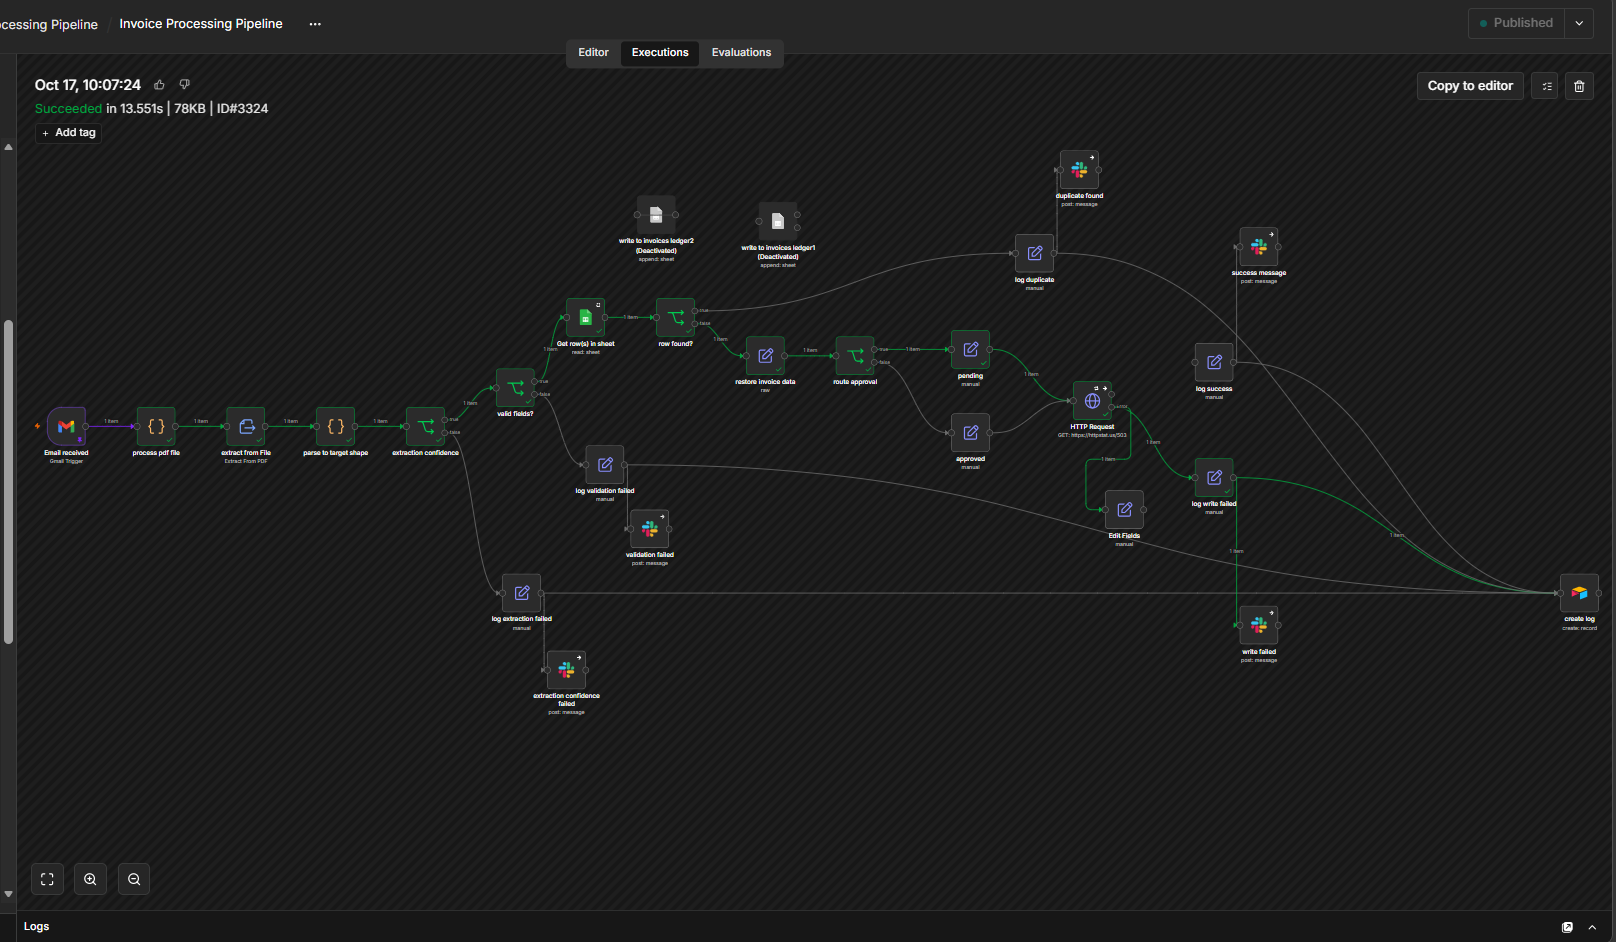
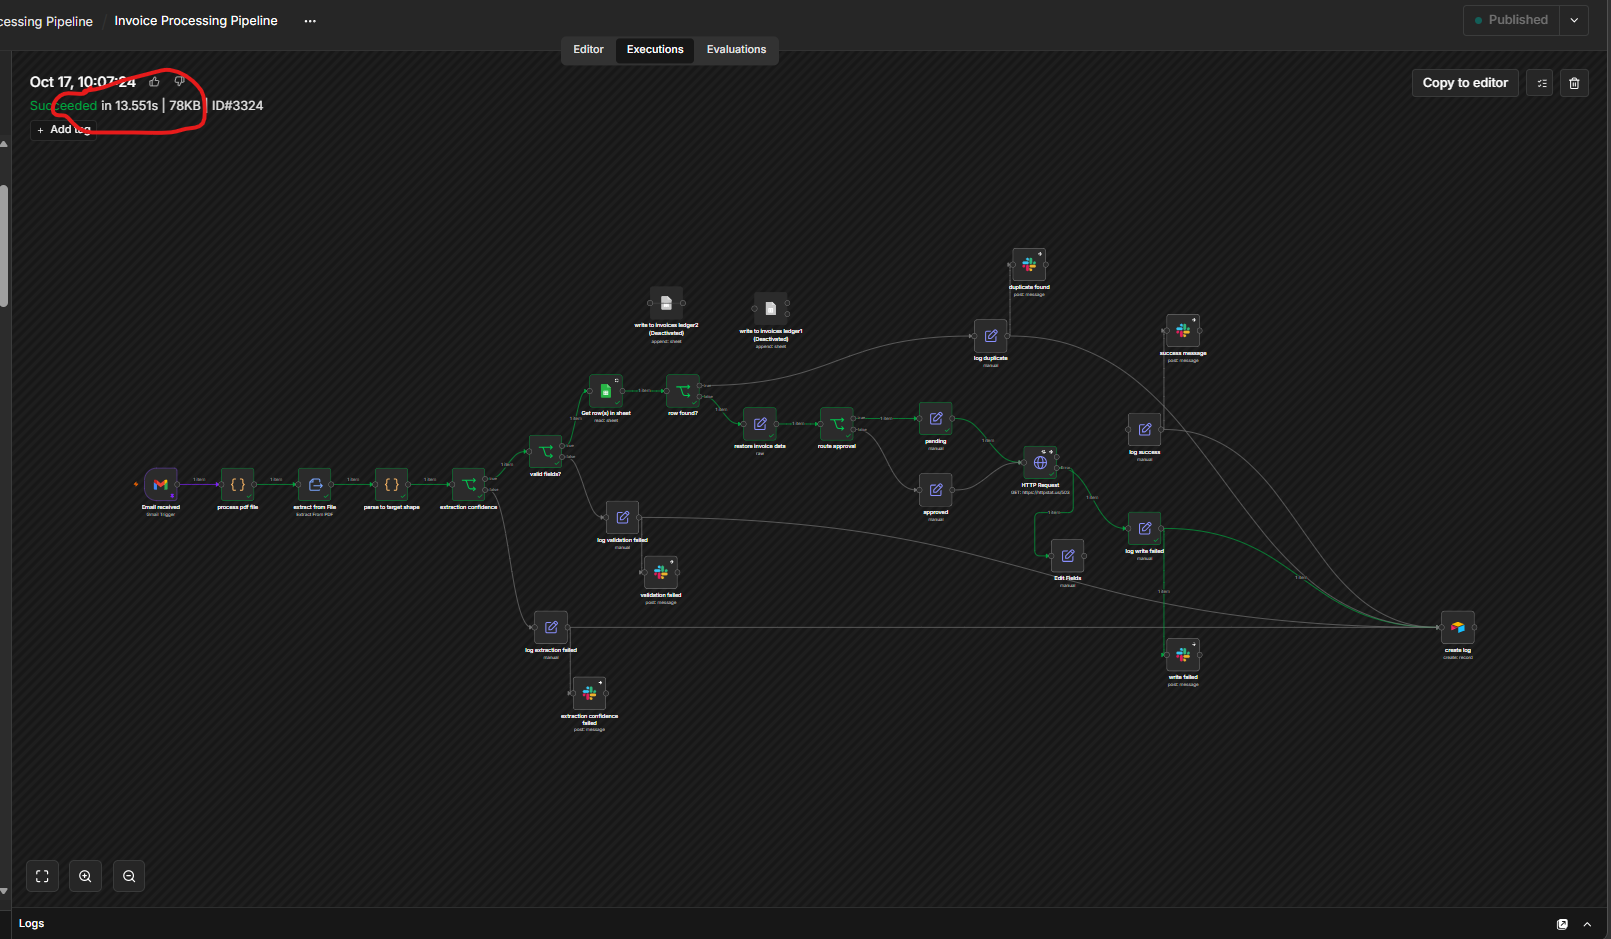
edited image and fixed typos

diff --git a/projects/05-invoice-pipeline/case-study.md b/projects/05-invoice-pipeline/case-study.md
@@ -55,10 +55,10 @@ happened and what a human should do.
 - **Same invoice sent twice** second one logs as Duplicate and isn't written again.
 - **Ledger write failing, two different ways, tested separately:**
 
-    | Failure                                                  | What happened                                                   |
-    | -------------------------------------------------------- | --------------------------------------------------------------- |
-    | Service unreachable (dead endpoint)                      | 3 attempts, about 14.6s, then Write Failed                      |
-    | Configuration error (nonexistent document or sheet name) | Failed immediately, no retries, 2s -4s total, then Write Failed |
+    | Failure                                                  | What happened                                                    |
+    | -------------------------------------------------------- | ---------------------------------------------------------------- |
+    | Service unreachable (dead endpoint)                      | 3 attempts, about 14s, then Write Failed                         |
+    | Configuration error (nonexistent document or sheet name) | Failed immediately, no retries, 2s - 4s total, then Write Failed |
 
     Both end in the same Write Failed log row and urgent Slack message. Failing fast on something
     that can't succeed is the right behavior. This is what I observed on the Google Sheets node
@@ -108,4 +108,4 @@ happened and what a human should do.
 - ![Full canvas with all five exit paths feeding the log](./images/full-canvas.png "Invoice Processing Pipeline workflow")
 - ![Execution showing the dead-endpoint retry (~14)](./images/retry.png "Retrying a failed execution")
 - ![Airtable Execution Log with one row per status type](./images/airtable-logs.png "Airtable logs")
-- ![The `#automation-alerts` message from the global error workflow](./images/global-error-alert.png "global error alert")
+- ![The `#automation-alerts` message from the global error workflow](./images/global-error-alert.png "global error slack-alert")
